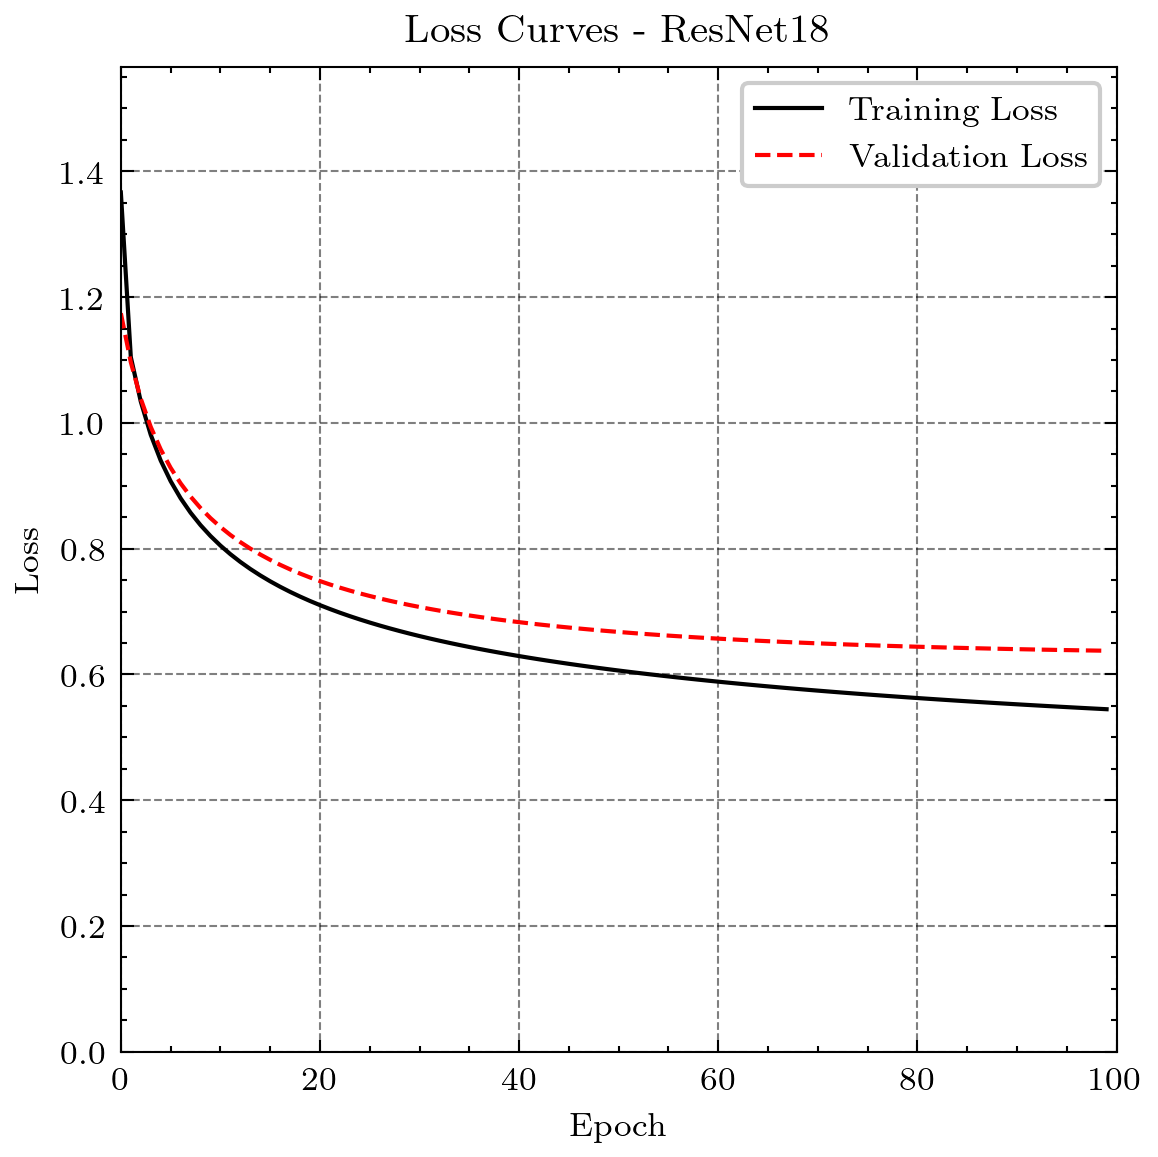
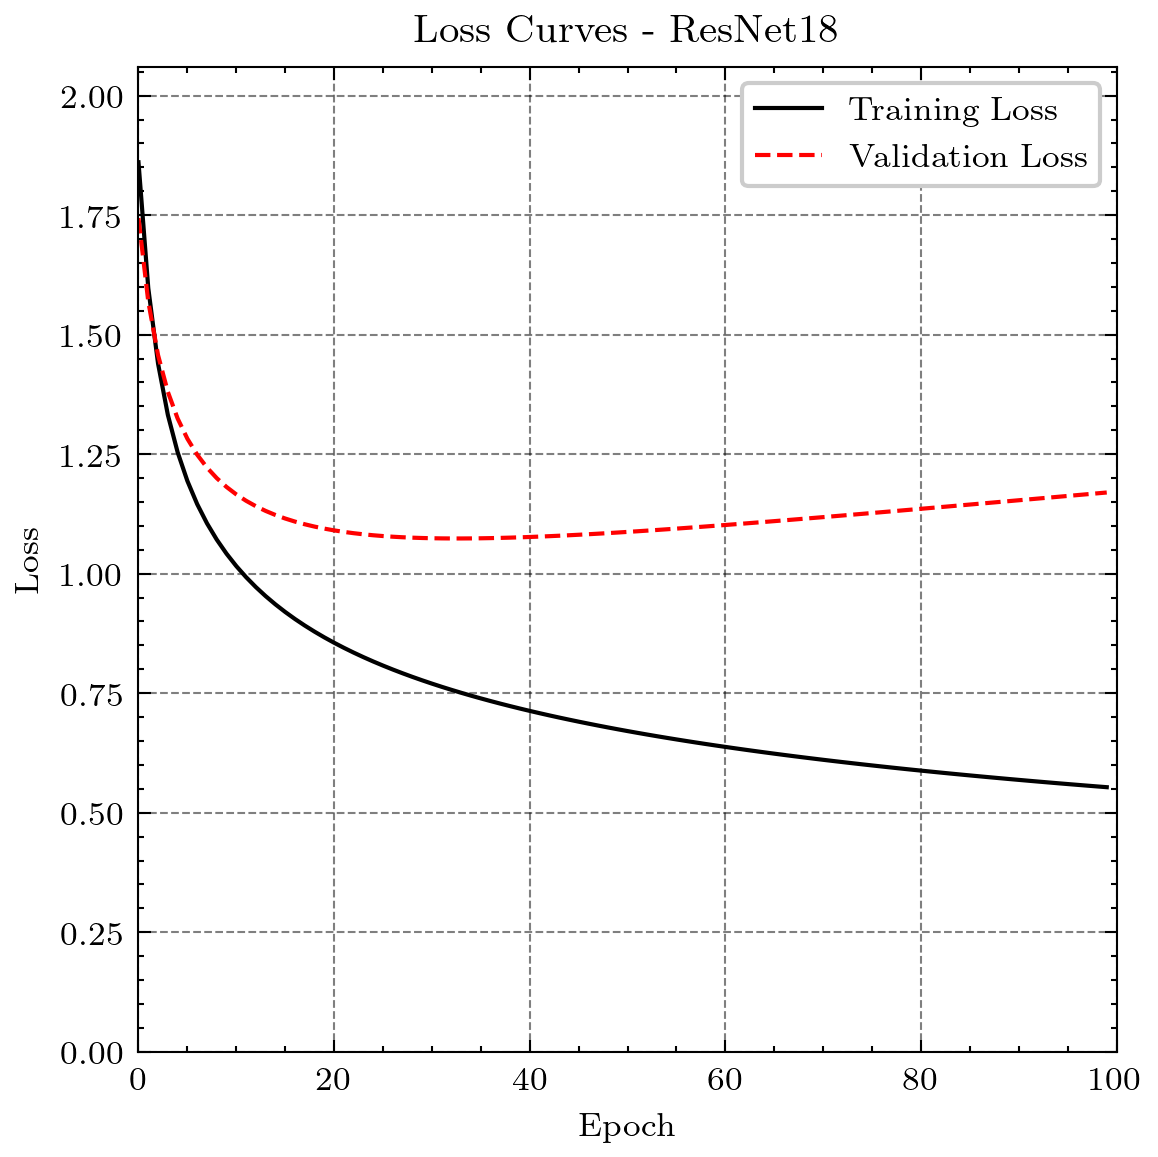
adding class imbalance handling

diff --git a/models/run.py b/models/run.py
@@ -6,15 +6,17 @@ from utils.io_handler import save_model, load_model, write_accuracies
 from utils.plot import plot_loss_curves, plot_confusion_matrix
 
 
-def run(settings, device, train_loader, val_loader, test_loader, mode="train"):
+def run(settings, device, train_loader, val_loader, test_loader, class_weights, mode="train"):
     model = Model(
         model_name=settings["model"]["name"],
         num_classes=settings["model"]["num classes"]
     ).to(device)
     optimizer = torch.optim.Adam(model.parameters(), lr=settings["hyperparameters"]["learning rate"])
-    criterion = torch.nn.CrossEntropyLoss()
+    #criterion = torch.nn.CrossEntropyLoss()
     if mode == "train":
         print("Training the model...")
+        class_weights = class_weights.to(device)
+        criterion = torch.nn.CrossEntropyLoss(weight=class_weights)
         model, train_loss, val_loss = train_model(
             model=model,
             criterion=criterion,
@@ -22,6 +24,7 @@ def run(settings, device, train_loader, val_loader, test_loader, mode="train"):
             num_epochs=settings["hyperparameters"]["epochs"],
             train_loader=train_loader,
             val_loader=val_loader,
+            class_weights=class_weights,
             device=device
         )
         save_model(model, "{}/{}".format(
@@ -51,6 +54,7 @@ def run(settings, device, train_loader, val_loader, test_loader, mode="train"):
             val_loader: "validation",
             test_loader: "test"
         }
+        criterion = torch.nn.CrossEntropyLoss()
         for loader in loader_mapping:
             if loader == test_loader:
                 accuracy, predictions, labels = test_model(
@@ -81,5 +85,3 @@ def run(settings, device, train_loader, val_loader, test_loader, mode="train"):
                               settings["general"]["output directory"],
                               settings["model"]["name"],
                               settings["lesion types"])
-        
-    

diff --git a/main.py b/main.py
@@ -23,16 +23,16 @@ def prepare():
 def main(): 
     settings, device, lesion_type_dict, mode = prepare() 
 
-    train_loader, val_loader, test_loader = prepare_dataloaders(
+    train_loader, val_loader, test_loader, class_weights = prepare_dataloaders(
         settings=settings,
         split_ratios=settings["dataset"]["split ratios"],
         lesion_type_dict=lesion_type_dict
     )
 
     if mode == "train":
-        run(settings, device, train_loader, val_loader, test_loader, mode="train")
+        run(settings, device, train_loader, val_loader, test_loader, class_weights, mode="train")
     elif mode == "test":
-        run(settings, device, train_loader, val_loader, test_loader, mode="test")
+        run(settings, device, train_loader, val_loader, test_loader, class_weights, mode="test")
     else:
         raise ValueError("Mode is not valid. Please choose from 'train', 'test'.")
 

diff --git a/models/train.py b/models/train.py
@@ -3,7 +3,7 @@ import tqdm
 import copy
 
 
-def train_model(model, criterion, optimizer, num_epochs, train_loader, val_loader, device):
+def train_model(model, criterion, optimizer, num_epochs, train_loader, val_loader, class_weights, device):
     """
     Function to train the model.
     
@@ -50,6 +50,12 @@ def train_model(model, criterion, optimizer, num_epochs, train_loader, val_loade
                 outputs = model(inputs)
                 _, preds = torch.max(outputs, 1)
                 loss = criterion(outputs, labels)
+                #print(loss)
+                loss = loss * class_weights[labels]
+                #print(class_weights[labels])
+                #print(class_weights[labels].shape)
+                #print(loss)
+                loss = loss.mean()
                 loss.backward()
                 optimizer.step()
             epoch_loss += loss.item()

diff --git a/dataloader/dataloader.py b/dataloader/dataloader.py
@@ -92,4 +92,15 @@ def prepare_dataloaders(settings, split_ratios, lesion_type_dict):
         shuffle=False,
         num_workers=settings["hyperparameters"]["num workers"]
     )
-    return train_loader, val_loader, test_loader
+    class_weights = calculate_weights(train_dataset)
+    return train_loader, val_loader, test_loader, class_weights
+
+
+def calculate_weights(dataset):
+    num_classes = 7
+    class_counts = torch.zeros(num_classes)
+    for _, label in dataset:
+        class_counts[label] += 1
+    total_samples = sum(class_counts)
+    class_weights = total_samples / (num_classes * class_counts)
+    return class_weights
